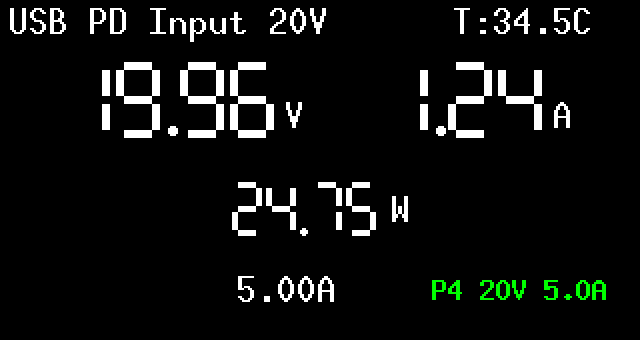
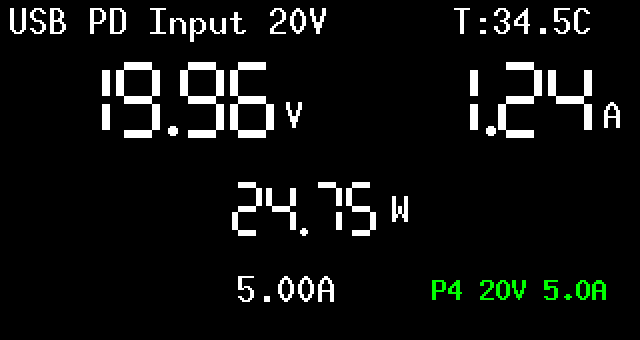
Right-align hero digits against fixed unit columns; trim header decimals
The V/A unit letters now sit at the same column on every screen regardless
of digit count (digits grow leftward), which is what actually made the PD
and channel screens look different. Headers show nominal voltages without
superfluous decimals: 1.8V, 12V, 12.34V.

Changed region(s): [[0.6562, 0.1765, 0.9688, 0.4118]]

diff --git a/Firmware/Rust/benchvolt-pd/src/view.rs b/Firmware/Rust/benchvolt-pd/src/view.rs
@@ -341,7 +341,14 @@ where
         };
         self.clear_detail_region(x - 7, 29, 151, 42);
 
-        let mut cursor = x;
+        // The unit letter sits at a fixed column on every screen; digits are
+        // right-aligned against it so varying digit counts never move it.
+        let suffix_x = x + 109;
+        let width: i32 = text
+            .chars()
+            .map(|character| if character == '.' { 7 } else { 25 })
+            .sum();
+        let mut cursor = suffix_x - 2 - width;
         for character in text.chars() {
             if character == '.' {
                 Circle::new(Point::new(cursor + 1, 34 + 29), 5)
@@ -356,7 +363,7 @@ where
         }
         Text::with_baseline(
             suffix,
-            Point::new(cursor + 2, 48),
+            Point::new(suffix_x, 48),
             MonoTextStyle::new(&FONT_10X20, Rgb565::WHITE),
             Baseline::Top,
         )
@@ -571,19 +578,26 @@ where
         .ok();
     }
 
+    /// Nominal voltage with no superfluous decimals: "12V", "1.8V", "12.34V".
+    fn write_nominal_volts(title: &mut String<32>, centivolts: u16) {
+        let whole = centivolts / 100;
+        let fraction = centivolts % 100;
+        if fraction == 0 {
+            write!(title, "{whole}V").ok();
+        } else if fraction.is_multiple_of(10) {
+            write!(title, "{whole}.{}V", fraction / 10).ok();
+        } else {
+            write!(title, "{whole}.{fraction:02}V").ok();
+        }
+    }
+
     /// Header with the channel's nominal (setpoint) voltage, e.g.
-    /// "Channel 3 3.30V".
+    /// "Channel 3 3.3V".
     fn draw_detail_title(&mut self, index: usize, projection: DetailProjection) {
         self.clear_detail_region(0, 0, 224, 22);
         let mut title: String<32> = String::new();
-        write!(
-            &mut title,
-            "Channel {} {}.{:02}V",
-            index + 1,
-            projection.setpoint_centivolts / 100,
-            projection.setpoint_centivolts % 100
-        )
-        .ok();
+        write!(&mut title, "Channel {} ", index + 1).ok();
+        Self::write_nominal_volts(&mut title, projection.setpoint_centivolts);
         Text::with_baseline(
             title.as_str(),
             Point::new(4, 1),
